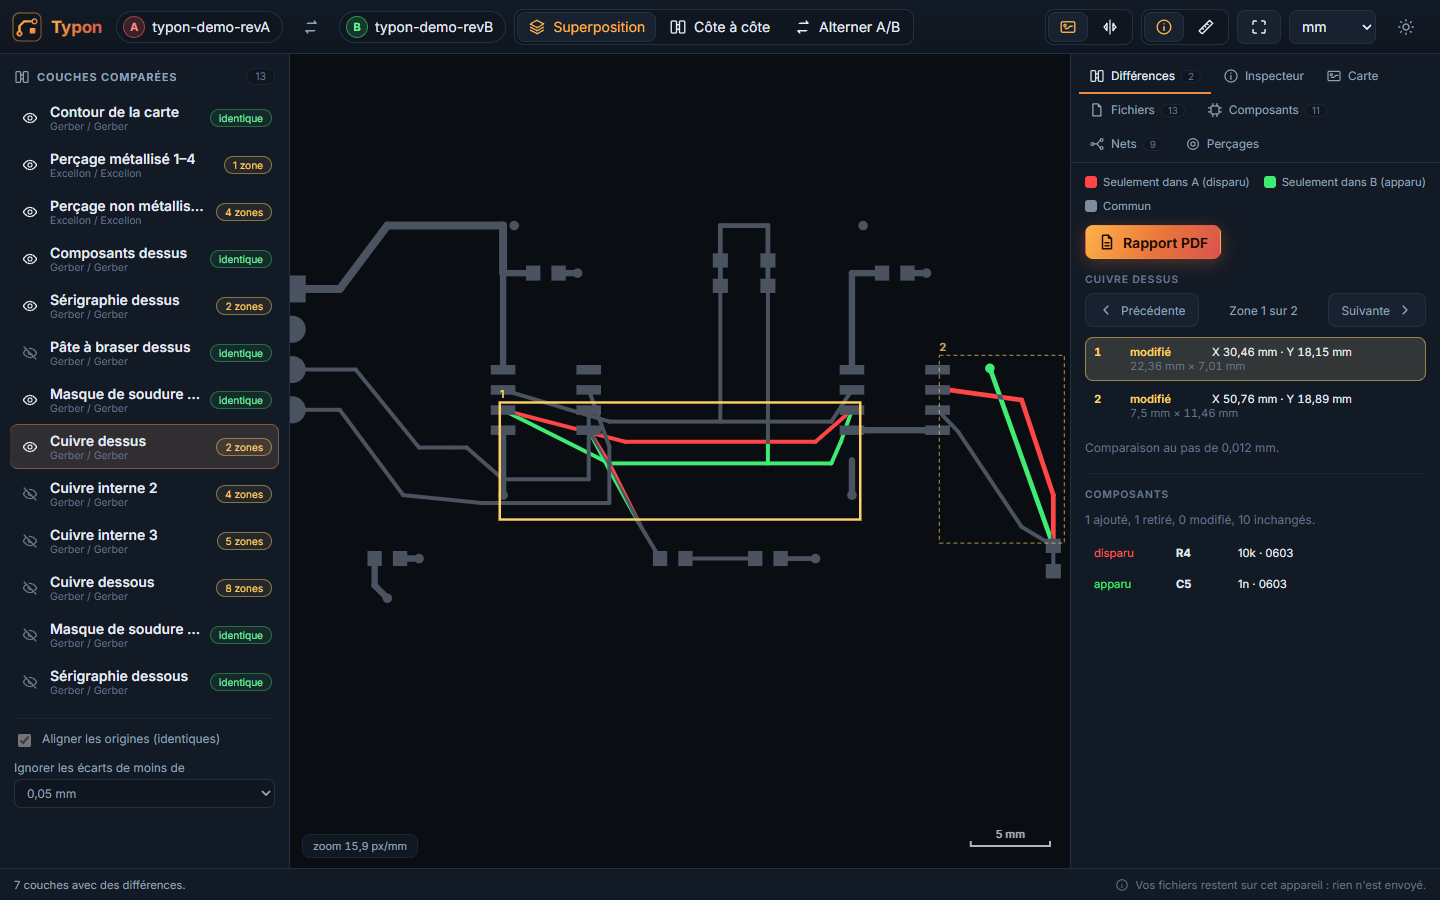
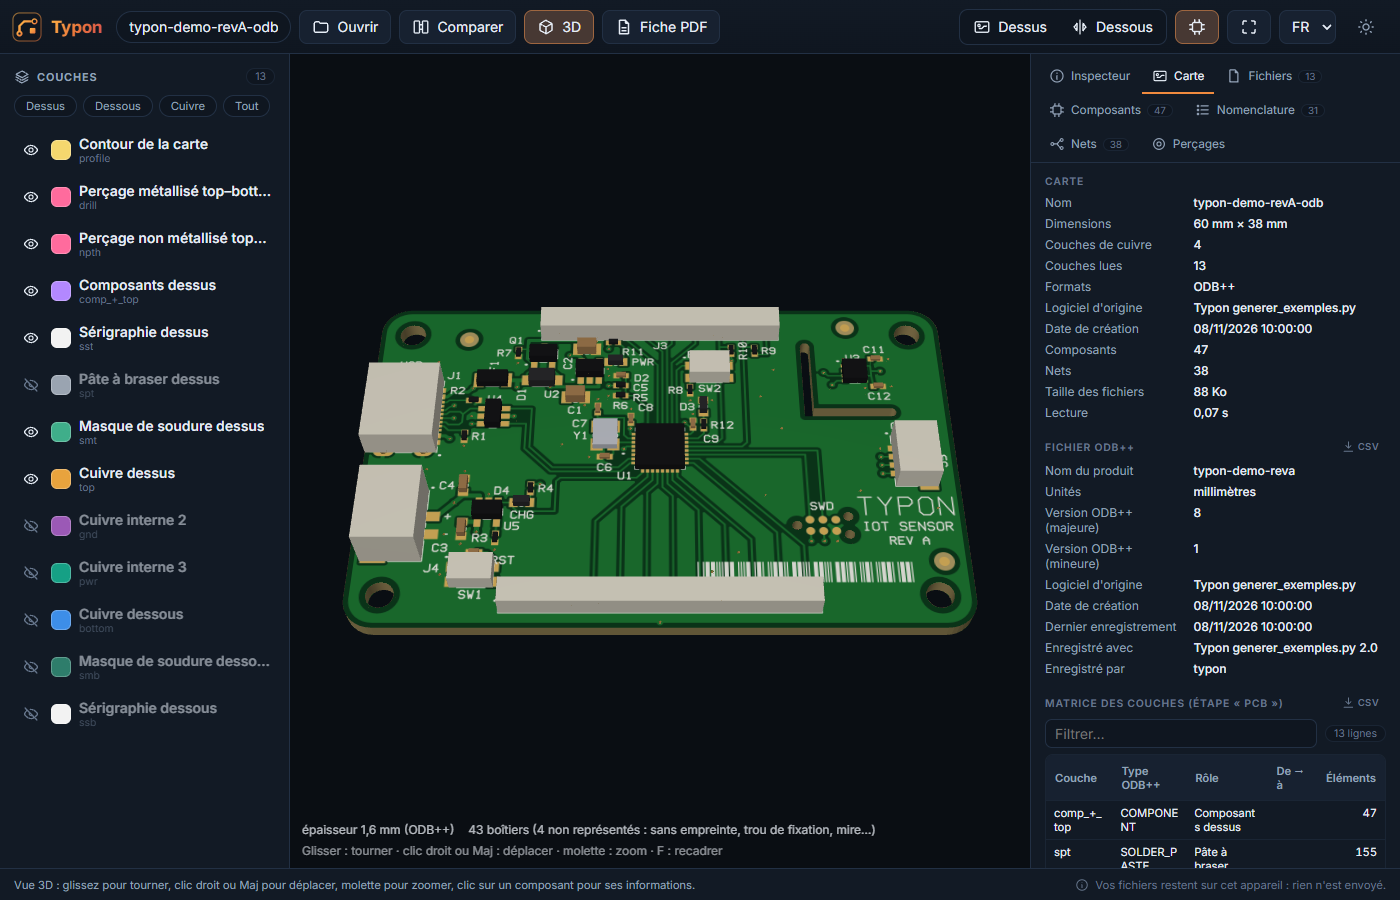
Page : versions web en tête (PDF Toolkit, Typon, Calendrier Photo), logiciels Windows à la fin, captures à jour

diff --git a/README.md b/README.md
@@ -1,108 +1,39 @@
 # Applications
 
-Logiciels gratuits pour Windows 10 et 11 (64 bits), en français. Ils fonctionnent entièrement sur votre ordinateur :
-vos photos et vos documents ne sont jamais envoyés sur Internet.
+Logiciels gratuits, en français. **Ils s'utilisent directement dans le navigateur, sans rien installer**, sur
+ordinateur, tablette ou téléphone. Tout se fait sur votre appareil : vos documents, vos fichiers et vos photos ne sont
+jamais envoyés sur Internet. Les sites fonctionnent aussi hors ligne une fois ouverts.
 
-| Application | À quoi elle sert | Version | Installateur | Portable |
-|---|---|---|---|---|
-| **Calendrier Photo** | Créer un calendrier avec vos photos, prêt à imprimer | 1.2 | [Installer](https://github.com/yannickbuchet-ctrl/applications/releases/download/calendrier-photo-v1.2/Calendrier-Photo-Installation-1.2.exe) | [Calendrier Photo.exe](https://github.com/yannickbuchet-ctrl/applications/releases/download/calendrier-photo-v1.2/Calendrier-Photo.exe) |
-| **PDF Toolkit 2** | Modifier, assembler, comparer, signer et protéger vos PDF ; lire le texte des scans ; photos d'identité | 1.5 | [Installer](https://github.com/yannickbuchet-ctrl/applications/releases/download/pdf-toolkit-2-v1.5/PDF-Toolkit-2-Installation-1.5.exe) | [PDF Toolkit 2.exe](https://github.com/yannickbuchet-ctrl/applications/releases/download/pdf-toolkit-2-v1.5/PDF-Toolkit-2.exe) |
+| Application | À quoi elle sert | Ouvrir |
+|---|---|---|
+| **PDF Toolkit Web** | Modifier, assembler, comparer, signer et protéger vos PDF ; lire le texte des scans ; photos d'identité | [Ouvrir PDF Toolkit](https://yannickbuchet-ctrl.github.io/pdf-toolkit-web/) |
+| **Typon** | Voir, comparer et vérifier les fichiers de fabrication de circuits imprimés (Gerber, ODB++, IPC-2581) | [Ouvrir Typon](https://yannickbuchet-ctrl.github.io/typon/) |
+| **Calendrier Photo Web** | Créer un calendrier avec vos photos, prêt à imprimer | [Ouvrir Calendrier Photo](https://yannickbuchet-ctrl.github.io/calendrier-photo-web/) |
 
-Toutes les versions sont sur la page [Releases](https://github.com/yannickbuchet-ctrl/applications/releases).
+PDF Toolkit et Calendrier Photo existent aussi en logiciels à installer sur Windows : voir
+[Versions Windows](#versions-windows) à la fin de la page.
 
-**Sans rien installer**, dans le navigateur, sur ordinateur, tablette ou téléphone (voir plus bas) :
-[Calendrier Photo Web](https://yannickbuchet-ctrl.github.io/calendrier-photo-web/),
-[PDF Toolkit Web](https://yannickbuchet-ctrl.github.io/pdf-toolkit-web/) et
-[Typon](https://yannickbuchet-ctrl.github.io/typon/), pour les fichiers de fabrication de circuits imprimés.
-
-## Quelle version choisir ?
-
-- **Installateur** (recommandé) : il installe l'application pour vous, sans droits d'administrateur, avec un
-  raccourci dans le menu Démarrer. Pour la retirer : Paramètres → Applications. C'est la version la moins souvent
-  bloquée par les antivirus.
-- **Portable** : un seul fichier `.exe` à lancer directement, sans rien installer. Pratique sur une clé USB.
-
-## Au premier lancement
-
-- Windows peut afficher « Windows a protégé votre ordinateur », car les fichiers ne sont pas signés numériquement :
-  cliquez sur **Informations complémentaires**, puis sur **Exécuter quand même**.
-- Si votre antivirus bloque le fichier (fausse alerte), autorisez-le ou ajoutez-le à ses exclusions.
-
-## Calendrier Photo
-
-Créez un calendrier personnalisé avec vos photos, puis exportez-le en PDF prêt à imprimer.
-
-- **Couverture et 12 mois**, au format A4 ou A3, en portrait ou en paysage.
-- **Une à quatre photos par page** : une photo, deux côte à côte, une grande et deux petites, ou une mosaïque.
-- **Remplissage automatique** : sélectionnez toutes vos photos d'un coup ; elles sont rangées mois par mois selon
-  leur date de prise de vue, chacune dans un cadre adapté (portrait ou paysage).
-- **Recadrage** de chaque photo (zoom et position), ou photo entière.
-- **Jours fériés** et **vacances scolaires** françaises (zones A, B et C), numéros de semaine, week-ends en couleur,
-  choix de la police et des couleurs.
-- **Anniversaires et événements**, avec l'âge pour les anniversaires. La liste s'enregistre dans un fichier ouvrable
-  avec Excel, pour la reprendre d'une année sur l'autre.
-- **Vue d'ensemble** des 13 pages, annuler et rétablir, **sauvegarde automatique** et récupération après une
-  fermeture imprévue. Un avertissement s'affiche si une photo est déjà utilisée dans le calendrier.
-- **Export PDF** en haute définition (300 dpi) et **impression**.
-
-![Calendrier Photo : réglages, photos des mois et aperçu de la page](captures/calendrier-photo.png)
-
-### Calendrier Photo Web : sans rien installer
-
-**Ouvrir : <https://yannickbuchet-ctrl.github.io/calendrier-photo-web/>**
-
-Le même calendrier, dans le navigateur, sur ordinateur, tablette ou téléphone : mêmes pages, même remplissage
-automatique, mêmes fichiers d'anniversaires que la version Windows.
-
-- **Vos photos ne sont jamais envoyées** : elles sont mises en page et le PDF est créé dans votre navigateur. Le
-  calendrier en cours est gardé sur votre appareil, et le site fonctionne hors ligne une fois ouvert.
-- **Le fichier de projet emporte ses photos** : un calendrier enregistré se rouvre sur n'importe quel appareil.
-- Pour essayer sans vos photos : « Essayer avec les photos modèles ».
-
-Code source : [github.com/yannickbuchet-ctrl/calendrier-photo-web](https://github.com/yannickbuchet-ctrl/calendrier-photo-web)
-(licence MIT).
-
-## PDF Toolkit 2
-
-Un éditeur de PDF simple et en français.
-
-- **Modifier le texte** d'un PDF directement sur la page, en gardant sa police d'origine quand c'est possible. Si la
-  police n'est pas installée sur l'ordinateur, l'application donne tout ce qu'il faut pour la retrouver (nom exact,
-  éditeur, licence) et la rechercher sur Internet.
-- **Rechercher et remplacer** un mot dans tout le document.
-- **Assembler** plusieurs PDF en un seul ; **organiser** les pages : les déplacer, les faire pivoter, les supprimer.
-- **Remplir les formulaires** (zones de texte, cases à cocher, listes de choix), **insérer une image ou une
-  signature** scannée, dont le fond blanc devient transparent.
-- **Protéger par mot de passe** (chiffrement AES 256 bits) et **compresser** pour l'envoi par e-mail.
-- **Lire le texte des documents scannés** (reconnaissance de texte, OCR, nouveau en 1.4) : un PDF scanné devient
-  cherchable, et son texte se sélectionne et se copie, sans changer d'aspect. Français et anglais, sans connexion.
-  Le texte reconnu s'affiche ensuite dans une fenêtre où chercher un mot (nouveau en 1.5).
-- **Photos d'iPhone** (HEIC) et WebP acceptées pour les images, signatures et photos d'identité (nouveau en 1.4).
-- **Comparer deux PDF** : les différences entre deux versions d'un document s'affichent côte à côte
-  ou superposées (ce qui a disparu en rouge, ce qui est nouveau en vert), avec la liste des différences et un rapport
-  PDF. Un réglage « Plan technique » compare finement les plans et les circuits imprimés, au centième de millimètre.
-- **Photos d'identité** : à partir d'une photo, une planche aux formats officiels (France, Union
-  européenne, Royaume-Uni, États-Unis…), qui s'imprime à la taille exacte des photos.
-- **Annuler et rétablir** chaque opération, zoom à la Ctrl + molette, impression.
-
-![PDF Toolkit 2 : recherche et remplacement dans un document](captures/pdf-toolkit-2.png)
-
-PDF Toolkit 2 est un logiciel libre sous licence GNU AGPL v3 : son code source est disponible sur
-[github.com/yannickbuchet-ctrl/pdf-toolkit-2](https://github.com/yannickbuchet-ctrl/pdf-toolkit-2).
-
-### PDF Toolkit Web : sans rien installer
+## PDF Toolkit Web
 
 **Ouvrir : <https://yannickbuchet-ctrl.github.io/pdf-toolkit-web/>**
 
-La même boîte à outils PDF, dans le navigateur (Chrome, Edge, Firefox, Safari), sur ordinateur, tablette ou
-téléphone : modifier le texte, annoter, signer, remplir, organiser, fusionner, comparer, protéger, compresser, lire le
-texte des scans (OCR), photos d'identité. Les photos d'iPhone (HEIC) sont acceptées.
+Un éditeur de PDF complet, dans le navigateur (Chrome, Edge, Firefox, Safari).
 
-- **Rien n'est envoyé sur Internet** : le site s'exécute entièrement dans votre navigateur, vos PDF restent sur votre
-  appareil. Il fonctionne aussi hors ligne une fois ouvert.
-- **Aucun programme à installer** : pratique sur un ordinateur qui n'autorise pas l'installation de logiciels.
+- **Modifier le texte** d'un PDF directement sur la page, dans sa police d'origine quand c'est possible ;
+  **rechercher et remplacer** dans tout le document.
+- **Assembler** plusieurs PDF ; **organiser** les pages : déplacer, faire pivoter, supprimer, extraire, insérer.
+- **Annoter, signer et remplir** : surlignage, notes, dessin, signature, image, formulaires.
+- **Comparer deux PDF** : différences de texte mot à mot et différences visuelles, côte à côte ou superposées, zoom
+  synchronisé, rapport PDF. Un réglage « Plan technique » compare finement les plans et les circuits imprimés.
+- **Lire le texte des documents scannés** (OCR) : un PDF scanné devient cherchable, et son texte se sélectionne et se
+  copie, sans changer d'aspect. Français et anglais.
+- **Photos d'identité** aux formats officiels, sur une planche qui s'imprime à la taille exacte. Les photos d'iPhone
+  (HEIC) sont acceptées.
+- **Protéger par mot de passe** et **compresser** pour l'envoi par e-mail.
 - **L'installer comme une application** (facultatif) : avec Chrome ou Edge, cliquez sur l'icône « Installer » à
   droite de la barre d'adresse. PDF Toolkit apparaît alors dans le menu Démarrer et dans « Ouvrir avec » pour les PDF.
+
+![PDF Toolkit Web : page d'accueil et ses outils](captures/pdf-toolkit-web.png)
 
 Code source : [github.com/yannickbuchet-ctrl/pdf-toolkit-web](https://github.com/yannickbuchet-ctrl/pdf-toolkit-web)
 (licence GNU AGPL v3).
@@ -111,31 +42,96 @@ Code source : [github.com/yannickbuchet-ctrl/pdf-toolkit-web](https://github.com
 
 **Ouvrir : <https://yannickbuchet-ctrl.github.io/typon/>**
 
-Pour les concepteurs électroniques : une visionneuse et un comparateur de fichiers de fabrication, dans le navigateur.
+Pour les concepteurs électroniques : une visionneuse, un comparateur et un vérificateur de fichiers de fabrication.
 
 - **Lit** les Gerber (RS-274D, RS-274X, X2, X3), les perçages Excellon et XNC, les fichiers de job, l'**ODB++** et
   l'**IPC-2581**, en fichiers séparés, en archive ZIP ou TGZ, ou en dossier.
 - **Affiche** chaque couche (dessus, dessous, couleurs, opacité), et donne au clic l'ouverture, le net, le composant et
   la broche d'un élément ; mesure les distances.
-- **Met en forme l'ODB++ et l'IPC-2581** : couches, composants, nomenclature, nets et perçages en tableaux,
-  exportables en CSV pour Excel.
 - **Montre la carte en 3D** : plaque découpée à son épaisseur, cuivre, vernis, sérigraphie, trous et boîtiers des
   composants.
 - **Vérifie la fabricabilité (DFM)** : largeur des pistes, isolements, courts-circuits, anneaux, perçages, cuivre au
   bord, vernis et sérigraphie, avec des profils de fabricants (JLCPCB, PCBWay, Eurocircuits…) et un rapport PDF.
-- **Surligne un net** et mesure la longueur de ses pistes.
-- **Met la carte en panneau** (rainures en V ou languettes perforées, bords, mires) et l'exporte en Gerber.
-- **Produit une fiche PDF** de description de la carte : vues 2D et 3D, caractéristiques, empilage, perçages,
-  composants, nomenclature.
 - **Compare deux versions**, même dans des formats différents : superposition (ce qui a disparu en rouge, ce qui est
   apparu en vert), côte à côte ou en alternance, zones de différence listées, composants ajoutés ou retirés, rapport
   PDF.
-- **En français ou en anglais**, au choix.
-- **Rien n'est envoyé** : tout est calculé dans le navigateur, et le site fonctionne hors ligne.
+- **Surligne un net** et mesure la longueur de ses pistes.
+- **Met en forme l'ODB++ et l'IPC-2581** : couches, composants, nomenclature, nets et perçages en tableaux,
+  exportables en CSV pour Excel.
+- **Met la carte en panneau** (rainures en V ou languettes perforées, bords, mires) et l'exporte en Gerber.
+- **Produit une fiche PDF** de description de la carte : vues 2D et 3D, caractéristiques, empilage, perçages,
+  composants, nomenclature.
+- **En français ou en anglais**, au choix. Une carte d'exemple, avec quelques défauts cachés, permet de tout essayer.
 
-![Typon : comparaison de deux révisions d'une carte](captures/typon.png)
+![Typon : carte d'exemple en 3D](captures/typon.png)
 
 Code source : [github.com/yannickbuchet-ctrl/typon](https://github.com/yannickbuchet-ctrl/typon) (licence MIT).
+
+## Calendrier Photo Web
+
+**Ouvrir : <https://yannickbuchet-ctrl.github.io/calendrier-photo-web/>**
+
+Créez un calendrier personnalisé avec vos photos, puis exportez-le en PDF prêt à imprimer.
+
+- **Couverture et 12 mois**, au format A4 ou A3, en portrait ou en paysage ; **une à quatre photos par page**.
+- **Remplissage automatique** : sélectionnez toutes vos photos d'un coup ; elles sont rangées mois par mois selon
+  leur date de prise de vue, chacune dans un cadre adapté.
+- **Recadrage** de chaque photo (zoom et position), ou photo entière.
+- **Jours fériés** et **vacances scolaires** françaises (zones A, B et C), numéros de semaine, week-ends en couleur,
+  choix de la police et des couleurs.
+- **Anniversaires et événements**, avec l'âge pour les anniversaires, dans un fichier ouvrable avec Excel.
+- **Le fichier de projet emporte ses photos** : un calendrier enregistré se rouvre sur n'importe quel appareil.
+- Pour essayer sans vos photos : « Essayer avec les photos modèles ».
+
+![Calendrier Photo Web : réglages, photos des mois et aperçu de la page](captures/calendrier-photo-web.png)
+
+Code source : [github.com/yannickbuchet-ctrl/calendrier-photo-web](https://github.com/yannickbuchet-ctrl/calendrier-photo-web)
+(licence MIT).
+
+## Versions Windows
+
+PDF Toolkit et Calendrier Photo existent aussi en logiciels pour Windows 10 et 11 (64 bits), qui fonctionnent sans
+navigateur ni connexion.
+
+| Logiciel | Version | Installateur | Portable |
+|---|---|---|---|
+| **PDF Toolkit 2** | 1.5 | [Installer](https://github.com/yannickbuchet-ctrl/applications/releases/download/pdf-toolkit-2-v1.5/PDF-Toolkit-2-Installation-1.5.exe) | [PDF Toolkit 2.exe](https://github.com/yannickbuchet-ctrl/applications/releases/download/pdf-toolkit-2-v1.5/PDF-Toolkit-2.exe) |
+| **Calendrier Photo** | 1.2 | [Installer](https://github.com/yannickbuchet-ctrl/applications/releases/download/calendrier-photo-v1.2/Calendrier-Photo-Installation-1.2.exe) | [Calendrier Photo.exe](https://github.com/yannickbuchet-ctrl/applications/releases/download/calendrier-photo-v1.2/Calendrier-Photo.exe) |
+
+Toutes les versions sont sur la page [Releases](https://github.com/yannickbuchet-ctrl/applications/releases).
+
+### Quelle version choisir ?
+
+- **Installateur** (recommandé) : il installe le logiciel pour vous, sans droits d'administrateur, avec un raccourci
+  dans le menu Démarrer. Pour le retirer : Paramètres → Applications. C'est la version la moins souvent bloquée par
+  les antivirus.
+- **Portable** : un seul fichier `.exe` à lancer directement, sans rien installer. Pratique sur une clé USB.
+
+### Au premier lancement
+
+- Windows peut afficher « Windows a protégé votre ordinateur », car les fichiers ne sont pas signés numériquement :
+  cliquez sur **Informations complémentaires**, puis sur **Exécuter quand même**.
+- Si votre antivirus bloque le fichier (fausse alerte), autorisez-le ou ajoutez-le à ses exclusions.
+
+### PDF Toolkit 2
+
+Les mêmes outils que PDF Toolkit Web : modifier le texte (avec les informations pour retrouver une police non
+installée), rechercher et remplacer, assembler et organiser, remplir les formulaires, insérer une image ou une
+signature, protéger par mot de passe (AES 256 bits), compresser, lire le texte des scans (OCR, avec une fenêtre pour
+chercher dans le texte reconnu), comparer deux PDF, photos d'identité, annuler et rétablir, impression.
+
+![PDF Toolkit 2 : recherche et remplacement dans un document](captures/pdf-toolkit-2.png)
+
+Logiciel libre sous licence GNU AGPL v3 : code source sur
+[github.com/yannickbuchet-ctrl/pdf-toolkit-2](https://github.com/yannickbuchet-ctrl/pdf-toolkit-2).
+
+### Calendrier Photo
+
+Les mêmes calendriers que Calendrier Photo Web : couverture et 12 mois, une à quatre photos par page, remplissage
+automatique selon la date des photos, recadrage, jours fériés et vacances scolaires, anniversaires, vue d'ensemble,
+sauvegarde automatique et récupération après une fermeture imprévue, export PDF en 300 dpi et impression.
+
+![Calendrier Photo : réglages, photos des mois et aperçu de la page](captures/calendrier-photo.png)
 
 ## Crédits
 
